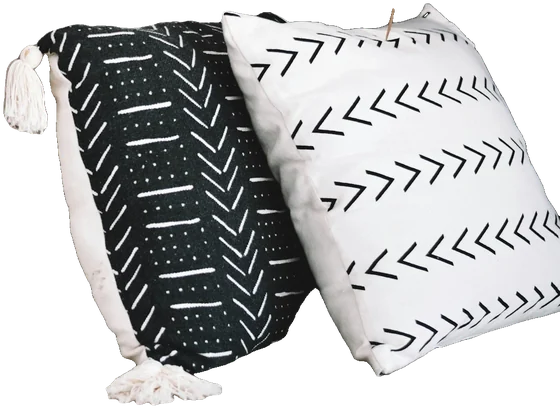
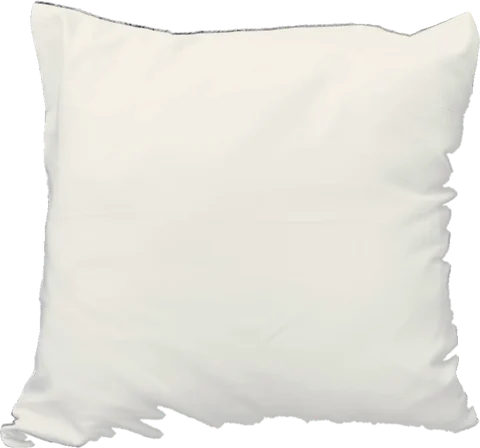
Morning Window: photo table moves to Our Story; plant, white vase, tulip
- The table spread with photo1-4 no longer sits under the hero; it now
  continues the Our Story band, laid out on the same linen as the story
  photos (so it shows where the story is told).
- Plain cream square cushion instead of the Nordic mudcloth pair.
- A houseplant in a white ribbed pot on the table and a plain white vase
  over Schedule replace the stoneware vase.
- R.S.V.P. gets a single pink tulip stem instead of the dried thistle.

Also fixes a stale comment in the chapel stylesheet.

Claude-Session: https://claude.ai/code/session_01B2hpZLg8v4z8WiErSMQ7o1

diff --git a/preview/morning-window.html b/preview/morning-window.html
@@ -74,7 +74,7 @@
 <!-- ============ 主畫面：紗簾拉開之後，早晨的窗邊與一張早餐桌 ============
      一張真的照片：白框窗前的一瓶鬱金香（跟開場紗簾後面那扇窗是同一張）。
      侘寂（Wabi-Sabi）：灰泥牆、亞麻、手捏的陶、乾燥的花草，顏色都是褪過的大地色。
-     往下是一張鋪著亞麻桌巾的桌子：洗出來的照片散在桌上，旁邊是手作陶杯、北歐抱枕、一只粗陶瓶
+     「我們的故事」那裡是一張鋪著亞麻桌巾的桌子：洗出來的照片散在桌上，旁邊是手作陶杯、素色抱枕、一盆室內植物
      （全部是去背的真實物件，不放在框裡）。整頁的灰泥牆上落著窗格形狀的陽光，跟著捲動慢慢移動。 -->
 <div id="app">
   <section class="panel lobby mw-lobby" data-panel="lobby" data-scroll>
@@ -108,19 +108,6 @@
 
     <div class="scene-body mw-body">
 
-      <!-- ===== 早餐桌：亞麻桌巾上散著四張洗出來的照片（照片牆前四張），
-           手作陶杯、北歐抱枕、一只粗陶瓶擺在照片之間；窗光跟著捲動滑過桌面 ===== -->
-      <section class="mw-table" data-scroll aria-hidden="true">
-        <i class="mw-table-sun"></i>
-        <figure class="mw-print p1" data-reveal="rise"><div class="mw-print-ph" data-photo="photo1"></div></figure>
-        <figure class="mw-print p2" data-reveal="rise"><div class="mw-print-ph" data-photo="photo2"></div></figure>
-        <figure class="mw-print p3" data-reveal="rise"><div class="mw-print-ph" data-photo="photo3"></div></figure>
-        <figure class="mw-print p4" data-reveal="rise"><div class="mw-print-ph" data-photo="photo4"></div></figure>
-        <i class="mw-obj o-cup t-cup"></i>
-        <i class="mw-obj o-cushion t-cushion"></i>
-        <i class="mw-obj o-vase t-vase"></i>
-      </section>
-
       <!-- ===== 婚禮資訊：一只手作陶杯 ===== -->
       <section class="info-block mw-sec">
         <div class="mw-head">
@@ -150,10 +137,10 @@
         </div>
       </section>
 
-      <!-- ===== 當日流程：一只粗陶瓶 ===== -->
+      <!-- ===== 當日流程：一只白色花瓶 ===== -->
       <section class="info-block mw-sec" id="scheduleBlock">
         <div class="mw-head">
-          <figure class="mw-icon" data-reveal="draw"><i class="mw-obj o-vase"></i></figure>
+          <figure class="mw-icon" data-reveal="draw"><i class="mw-obj o-wvase"></i></figure>
           <span class="en block-title">Schedule</span>
           <span class="cn block-sub">當日流程</span>
         </div>
@@ -162,7 +149,7 @@
         </div>
       </section>
 
-      <!-- ===== 出席前的小提醒：一對北歐抱枕（沒填就整塊收起） ===== -->
+      <!-- ===== 出席前的小提醒：一顆素色抱枕（沒填就整塊收起） ===== -->
       <section class="info-block mw-sec" id="noteBlock" hidden>
         <div class="mw-head">
           <figure class="mw-icon" data-reveal="draw"><i class="mw-obj o-cushion"></i></figure>
@@ -207,7 +194,7 @@
         </div>
       </section>
 
-      <!-- ===== 兩人的故事：亞麻布上疊著兩張照片（故事照、照片牆第五張），窗格的陽光跟著捲動慢慢滑過去 ===== -->
+      <!-- ===== 兩人的故事：亞麻布上疊著兩張照片（故事照、照片牆第五張），下面接著散著照片的桌巾；窗格的陽光跟著捲動慢慢滑過去 ===== -->
       <section class="info-block mw-band mw-story" id="storyBlock" hidden data-scroll>
         <div class="mw-band-bg" aria-hidden="true"><i class="mw-sun"></i></div>
         <div class="mw-band-inner">
@@ -221,6 +208,18 @@
             <p class="story-text" id="storyText"></p>
           </div>
         </div>
+              <!-- 故事下面接著一張亞麻桌巾：散著四張洗出來的照片（照片牆前四張），
+                   手作陶杯、素色抱枕、一盆室內植物擺在照片之間；窗光跟著捲動滑過桌面 -->
+          <section class="mw-table" data-scroll aria-hidden="true">
+            <i class="mw-table-sun"></i>
+            <figure class="mw-print p1" data-reveal="rise"><div class="mw-print-ph" data-photo="photo1"></div></figure>
+            <figure class="mw-print p2" data-reveal="rise"><div class="mw-print-ph" data-photo="photo2"></div></figure>
+            <figure class="mw-print p3" data-reveal="rise"><div class="mw-print-ph" data-photo="photo3"></div></figure>
+            <figure class="mw-print p4" data-reveal="rise"><div class="mw-print-ph" data-photo="photo4"></div></figure>
+            <i class="mw-obj o-cup t-cup"></i>
+            <i class="mw-obj o-cushion t-cushion"></i>
+            <i class="mw-obj o-plant t-plant"></i>
+          </section>
       </section>
 
       <!-- ===== Moments 相遇之間 ===== -->
@@ -251,14 +250,14 @@
         </div>
       </section>
 
-      <!-- ===== R.S.V.P.：一朵乾燥的薊花 ===== -->
+      <!-- ===== R.S.V.P.：一枝粉色鬱金香 ===== -->
       <section class="info-block mw-sec">
         <div class="mw-head">
           <span class="en block-title">R.S.V.P.</span>
           <span class="cn block-sub">出席回覆</span>
         </div>
         <div class="mw-card mw-rsvp" data-reveal="rise" data-scroll>
-          <figure class="mw-icon mw-rsvp-icon" data-reveal="draw" aria-hidden="true"><i class="mw-obj o-thistle"></i></figure>
+          <figure class="mw-icon mw-rsvp-icon" data-reveal="draw" aria-hidden="true"><i class="mw-obj o-tulip"></i></figure>
           <div class="rsvp-cta">
             <h3>能來參加我們的婚禮嗎？</h3>
             <p>花 30 秒回覆出席，讓我們把最好的位置留給你</p>

diff --git a/public/lobby-window.html b/public/lobby-window.html
@@ -85,7 +85,7 @@
 <!-- ============ 主畫面：紗簾拉開之後，早晨的窗邊與一張早餐桌 ============
      一張真的照片：白框窗前的一瓶鬱金香（跟開場紗簾後面那扇窗是同一張）。
      侘寂（Wabi-Sabi）：灰泥牆、亞麻、手捏的陶、乾燥的花草，顏色都是褪過的大地色。
-     往下是一張鋪著亞麻桌巾的桌子：洗出來的照片散在桌上，旁邊是手作陶杯、北歐抱枕、一只粗陶瓶
+     「我們的故事」那裡是一張鋪著亞麻桌巾的桌子：洗出來的照片散在桌上，旁邊是手作陶杯、素色抱枕、一盆室內植物
      （全部是去背的真實物件，不放在框裡）。整頁的灰泥牆上落著窗格形狀的陽光，跟著捲動慢慢移動。 -->
 <div id="app">
   <section class="panel lobby mw-lobby" data-panel="lobby" data-scroll>
@@ -119,19 +119,6 @@
 
     <div class="scene-body mw-body">
 
-      <!-- ===== 早餐桌：亞麻桌巾上散著四張洗出來的照片（照片牆前四張），
-           手作陶杯、北歐抱枕、一只粗陶瓶擺在照片之間；窗光跟著捲動滑過桌面 ===== -->
-      <section class="mw-table" data-scroll aria-hidden="true">
-        <i class="mw-table-sun"></i>
-        <figure class="mw-print p1" data-reveal="rise"><div class="mw-print-ph" data-photo="photo1"></div></figure>
-        <figure class="mw-print p2" data-reveal="rise"><div class="mw-print-ph" data-photo="photo2"></div></figure>
-        <figure class="mw-print p3" data-reveal="rise"><div class="mw-print-ph" data-photo="photo3"></div></figure>
-        <figure class="mw-print p4" data-reveal="rise"><div class="mw-print-ph" data-photo="photo4"></div></figure>
-        <i class="mw-obj o-cup t-cup"></i>
-        <i class="mw-obj o-cushion t-cushion"></i>
-        <i class="mw-obj o-vase t-vase"></i>
-      </section>
-
       <!-- ===== 婚禮資訊：一只手作陶杯 ===== -->
       <section class="info-block mw-sec">
         <div class="mw-head">
@@ -161,10 +148,10 @@
         </div>
       </section>
 
-      <!-- ===== 當日流程：一只粗陶瓶 ===== -->
+      <!-- ===== 當日流程：一只白色花瓶 ===== -->
       <section class="info-block mw-sec" id="scheduleBlock">
         <div class="mw-head">
-          <figure class="mw-icon" data-reveal="draw"><i class="mw-obj o-vase"></i></figure>
+          <figure class="mw-icon" data-reveal="draw"><i class="mw-obj o-wvase"></i></figure>
           <span class="en block-title">Schedule</span>
           <span class="cn block-sub">當日流程</span>
         </div>
@@ -173,7 +160,7 @@
         </div>
       </section>
 
-      <!-- ===== 出席前的小提醒：一對北歐抱枕（沒填就整塊收起） ===== -->
+      <!-- ===== 出席前的小提醒：一顆素色抱枕（沒填就整塊收起） ===== -->
       <section class="info-block mw-sec" id="noteBlock" hidden>
         <div class="mw-head">
           <figure class="mw-icon" data-reveal="draw"><i class="mw-obj o-cushion"></i></figure>
@@ -218,7 +205,7 @@
         </div>
       </section>
 
-      <!-- ===== 兩人的故事：亞麻布上疊著兩張照片（故事照、照片牆第五張），窗格的陽光跟著捲動慢慢滑過去 ===== -->
+      <!-- ===== 兩人的故事：亞麻布上疊著兩張照片（故事照、照片牆第五張），下面接著散著照片的桌巾；窗格的陽光跟著捲動慢慢滑過去 ===== -->
       <section class="info-block mw-band mw-story" id="storyBlock" hidden data-scroll>
         <div class="mw-band-bg" aria-hidden="true"><i class="mw-sun"></i></div>
         <div class="mw-band-inner">
@@ -232,6 +219,18 @@
             <p class="story-text" id="storyText"></p>
           </div>
         </div>
+              <!-- 故事下面接著一張亞麻桌巾：散著四張洗出來的照片（照片牆前四張），
+                   手作陶杯、素色抱枕、一盆室內植物擺在照片之間；窗光跟著捲動滑過桌面 -->
+          <section class="mw-table" data-scroll aria-hidden="true">
+            <i class="mw-table-sun"></i>
+            <figure class="mw-print p1" data-reveal="rise"><div class="mw-print-ph" data-photo="photo1"></div></figure>
+            <figure class="mw-print p2" data-reveal="rise"><div class="mw-print-ph" data-photo="photo2"></div></figure>
+            <figure class="mw-print p3" data-reveal="rise"><div class="mw-print-ph" data-photo="photo3"></div></figure>
+            <figure class="mw-print p4" data-reveal="rise"><div class="mw-print-ph" data-photo="photo4"></div></figure>
+            <i class="mw-obj o-cup t-cup"></i>
+            <i class="mw-obj o-cushion t-cushion"></i>
+            <i class="mw-obj o-plant t-plant"></i>
+          </section>
       </section>
 
       <!-- ===== Moments 相遇之間 ===== -->
@@ -262,14 +261,14 @@
         </div>
       </section>
 
-      <!-- ===== R.S.V.P.：一朵乾燥的薊花 ===== -->
+      <!-- ===== R.S.V.P.：一枝粉色鬱金香 ===== -->
       <section class="info-block mw-sec">
         <div class="mw-head">
           <span class="en block-title">R.S.V.P.</span>
           <span class="cn block-sub">出席回覆</span>
         </div>
         <div class="mw-card mw-rsvp" data-reveal="rise" data-scroll>
-          <figure class="mw-icon mw-rsvp-icon" data-reveal="draw" aria-hidden="true"><i class="mw-obj o-thistle"></i></figure>
+          <figure class="mw-icon mw-rsvp-icon" data-reveal="draw" aria-hidden="true"><i class="mw-obj o-tulip"></i></figure>
           <div class="rsvp-cta">
             <h3>能來參加我們的婚禮嗎？</h3>
             <p>花 30 秒回覆出席，讓我們把最好的位置留給你</p>

diff --git a/public/css/lobby-window.css b/public/css/lobby-window.css
@@ -7,7 +7,7 @@
      世界觀  開場拉開一片亞麻紗簾，簾子後面是早晨的窗邊
      材質    灰泥牆、亞麻、木頭、粗陶、乾燥花草、早晨淡淡的陽光
      素材    真的照片：紗簾與窗、白牆上窗格形狀的陽光、亞麻布、照著陽光的紗簾；
-             去背的手作陶杯、粗陶瓶、北歐抱枕、攤開的書、乾燥的薊花與種子花、乾草穗；全部在 public/img/window/，出處見 README
+             去背的手作陶杯、室內植物、白色花瓶、素色抱枕、攤開的書、一枝粉色鬱金香、乾燥的種子花、乾草穗；全部在 public/img/window/，出處見 README
      圖像    區塊標題上是一件一件去背的早晨小物（不放在框裡），像擺在桌上
      新人照片  早餐桌上四張（照片牆前四張）、故事兩張、倒數旁一張 —— 都是洗出來的照片
 
@@ -129,8 +129,8 @@ body[data-hero-name="cn"] .mw-hero .mw-names{font-family:'Noto Serif TC',serif;f
 .mw-table .p4{left:calc(50% + clamp(220px,26vw,330px));top:12%;--r:7deg;}
 .mw-table .mw-obj{position:absolute;height:auto;z-index:3;}
 .mw-table .t-cup{width:clamp(90px,10vw,120px);left:calc(50% - clamp(220px,24vw,300px));top:62%;}
-.mw-table .t-cushion{width:clamp(140px,16vw,200px);left:calc(50% + clamp(4px,1.6vw,24px));top:58%;transform:rotate(-4deg);}
-.mw-table .t-vase{width:clamp(90px,10vw,130px);left:calc(50% + clamp(220px,26vw,330px));top:52%;}
+.mw-table .t-cushion{width:clamp(110px,12vw,150px);left:calc(50% + clamp(4px,1.6vw,24px));top:56%;transform:rotate(-6deg);}
+.mw-table .t-plant{width:clamp(110px,12vw,150px);left:calc(50% + clamp(220px,26vw,330px));top:46%;}
 @media (max-width:640px){
   .mw-table{height:520px;}
   .mw-table .mw-print{width:42vw;}
@@ -139,8 +139,8 @@ body[data-hero-name="cn"] .mw-hero .mw-names{font-family:'Noto Serif TC',serif;f
   .mw-table .p3{left:6vw;top:40%;}
   .mw-table .p4{left:52vw;top:37%;}
   .mw-table .t-cup{width:28vw;left:2vw;top:76%;}
-  .mw-table .t-cushion{width:30vw;left:36vw;top:78%;}
-  .mw-table .t-vase{width:22vw;left:70vw;top:70%;}
+  .mw-table .t-cushion{width:24vw;left:38vw;top:76%;}
+  .mw-table .t-plant{width:24vw;left:70vw;top:66%;}
 }
 
 /* ============================================================
@@ -152,15 +152,16 @@ body[data-hero-name="cn"] .mw-hero .mw-names{font-family:'Noto Serif TC',serif;f
 .mw-sec[hidden]{display:none;}
 .mw-head{display:flex;flex-direction:column;align-items:center;gap:4px;margin-bottom:clamp(18px,3vw,28px);}
 .mw-icon{position:relative;margin:0 0 10px;display:flex;justify-content:center;align-items:flex-end;height:clamp(96px,11vw,128px);}
-/* 去背的侘寂小物（真的照片）：手作陶杯（Annie Spratt）、粗陶瓶與乾燥薊花（Anya Chernykh）、北歐抱枕（Content Pixie）、
-   攤開的書（Olga Tutunaru）、乾燥的種子花（Stacy）／Unsplash。底下落一點桌面的影子 */
+/* 去背的侘寂小物（真的照片）：手作陶杯（Annie Spratt）、白色花瓶（Sixteen Miles Out）、白盆裡的室內植物（Ceyda Çiftci）、
+   素色抱枕（Mediamodifier）、攤開的書（Olga Tutunaru）、一枝粉色鬱金香（Sabina Hassan）、乾燥的種子花（Stacy）／Unsplash。底下落一點桌面的影子 */
 .mw-obj{display:block;height:100%;background:center bottom/contain no-repeat;
   filter:drop-shadow(6px 14px 10px rgba(110,85,60,.24));}
 .mw-obj.o-cup{aspect-ratio:350/458;background-image:url(../img/window/clay-cup.webp);}
-.mw-obj.o-vase{aspect-ratio:352/480;background-image:url(../img/window/stone-vase.webp);}
-.mw-obj.o-thistle{aspect-ratio:303/560;background-image:url(../img/window/thistle.webp);height:118%;}
+.mw-obj.o-plant{aspect-ratio:414/520;background-image:url(../img/window/plant.webp);}
+.mw-obj.o-wvase{aspect-ratio:308/440;background-image:url(../img/window/white-vase.webp);height:92%;}
+.mw-obj.o-tulip{aspect-ratio:85/420;background-image:url(../img/window/tulip-stem.webp);height:130%;transform:rotate(-6deg);}
 .mw-obj.o-seed{aspect-ratio:214/320;background-image:url(../img/window/seedhead.webp);}
-.mw-obj.o-cushion{aspect-ratio:560/409;background-image:url(../img/window/cushion.webp);}
+.mw-obj.o-cushion{aspect-ratio:480/448;background-image:url(../img/window/cushion.webp);}
 .mw-obj.o-book{aspect-ratio:640/559;background-image:url(../img/window/book.webp);}
 
 /* 洗出來的照片：白邊、一點點厚度、落在桌上的影子 */
@@ -208,7 +209,10 @@ body[data-hero-name="cn"] .mw-hero .mw-names{font-family:'Noto Serif TC',serif;f
 .mw-band-title{font:400 clamp(32px,4.6vw,48px)/1.15 'EB Garamond','Noto Serif TC',serif;letter-spacing:.01em;color:var(--mw-ink);}
 .mw-band-sub{margin-top:8px;font-size:13px;letter-spacing:.42em;color:var(--mw-soft);}
 
-/* ---- 故事：亞麻布 ＋ 一張照片 ＋ 滑過去的窗格陽光 ---- */
+/* ---- 故事：亞麻布 ＋ 兩張照片 ＋ 下面一張散著照片的桌巾 ＋ 滑過去的窗格陽光 ---- */
+/* 桌巾放進故事這一帶：底下的亞麻布就是桌巾，不必自己再鋪一塊、也不必淡出 */
+.mw-story .mw-table{margin:clamp(40px,6vw,70px) -24px 0;background:none;-webkit-mask:none;mask:none;z-index:2;}
+.mw-story .mw-table-sun{display:none;}   /* 窗光由整條帶子的 .mw-sun 負責 */
 /* 一塊真的亞麻布（Safwan Thottoli／Unsplash） */
 .mw-story .mw-band-bg{overflow:hidden;background:#ece2d0 url(../img/window/linen.webp) center/cover no-repeat;
   box-shadow:inset 0 14px 20px -16px rgba(110,85,60,.35),inset 0 -14px 20px -16px rgba(110,85,60,.35);}

diff --git a/public/css/lobby-chapel.css b/public/css/lobby-chapel.css
@@ -227,7 +227,7 @@ body[data-hero-name="cn"] .mc-hero .mc-names{font-family:'Noto Serif TC',serif;f
 .mc-story-body{padding:clamp(26px,4vw,40px);text-align:left;}
 .mc-story .story-text{margin:18px 0 0;max-width:32em;color:var(--mc-ink);font-size:15px;text-align:left;}
 
-/* ---- 倒數：毛玻璃後面是兩個人的照片，越捲越清楚 ---- */
+/* ---- 倒數：毛玻璃後面是一片鈴蘭，越捲越清楚 ---- */
 .mc-count{--clear:clamp(0,calc((var(--sp,0) - .12) * 2.4),1);}
 /* 毛玻璃後面：一片柔白的鈴蘭（Svetlana Butovskaya／Unsplash），捲到這裡慢慢清楚 */
 .mc-frost-ph{position:absolute;inset:-30px;background:#f3f2ee url(../img/chapel/lily-field.webp) 50% 45%/cover no-repeat;

diff --git a/README.md b/README.md
@@ -337,11 +337,12 @@ HTML 裡直接寫 `{{couple}}`、`{{date}}`、`{{hashtag}}` 這類 token，
 > | `window/sun-patch.webp` | 整頁牆上窗格形狀的陽光、早餐桌與「我們的故事」上滑過去的光 | [白牆上的窗光](https://unsplash.com/photos/X8sWlFdQElQ)・H&CO | 轉成灰階、拉開明暗，做成 multiply 用的光影 |
 > | `window/linen.webp` | 早餐桌的桌巾、「我們的故事」的亞麻布 | [米色的布紋](https://unsplash.com/photos/QFQ6vsou7XA)・Safwan Thottoli | 縮圖 |
 > | `window/sheer-light.webp` | 倒數（陽光跟著捲動移過來） | [陽光斜斜照在白紗簾上](https://unsplash.com/photos/VUu9rAmb9R0)・Mila Albrecht | 縮圖 |
-> | `window/clay-cup.webp` | 早餐桌、婚禮資訊 | [手捏的陶杯](https://unsplash.com/photos/x6XqtHVag7c)・Annie Spratt | 去背 |
-> | `window/stone-vase.webp` | 早餐桌、當日流程 | [一只粗陶瓶](https://unsplash.com/photos/YxWqfvc8l2s)・Anya Chernykh | 去背 |
-> | `window/cushion.webp` | 早餐桌、小提醒 | [一對北歐風抱枕](https://unsplash.com/photos/k8AlRsl7L8E)・Content Pixie | 去背 |
+> | `window/clay-cup.webp` | 「我們的故事」的桌巾上、婚禮資訊 | [手捏的陶杯](https://unsplash.com/photos/x6XqtHVag7c)・Annie Spratt | 去背 |
+> | `window/plant.webp` | 「我們的故事」的桌巾上 | [白色條紋盆裡的一盆草](https://unsplash.com/photos/zbQ3vh9zLwo)・Ceyda Çiftci | 去背 |
+> | `window/cushion.webp` | 「我們的故事」的桌巾上、小提醒 | [一顆白色方枕](https://unsplash.com/photos/zTY9OwAfOrg)・Mediamodifier | 去背、去掉旁邊的毯子，調成米白 |
 > | `window/book.webp` | 交通資訊 | [攤開的書與一枝小草](https://unsplash.com/photos/H1G1fa_UIkA)・Olga Tutunaru | 去背 |
-> | `window/thistle.webp` | R.S.V.P. | [粗陶瓶裡的一朵乾燥薊花](https://unsplash.com/photos/UGOVKgymeVQ)・Anya Chernykh | 去背（只留花） |
+> | `window/white-vase.webp` | 當日流程 | [一只白色花瓶](https://unsplash.com/photos/aFvxASlms2A)・Sixteen Miles Out | 去背 |
+> | `window/tulip-stem.webp` | R.S.V.P. | [一枝粉白鬱金香](https://unsplash.com/photos/d3C86xPipVs)・Sabina Hassan | 去背 |
 > | `window/seedhead.webp` | 倒數照片旁、捲動軌跡沿路落下的種子花 | [一枝乾燥的種子花](https://unsplash.com/photos/mpt2pljjzf4)・Stacy | 去背 |
 > | `window/grass-plume.webp` | 捲動軌跡末端的乾草穗 | [一枝乾草穗](https://unsplash.com/photos/_88DsHh1F20)・Evie S. | 去背 |
 > | `window/plaster.webp` | 整頁的灰泥牆 | [米色灰泥牆](https://unsplash.com/photos/hyVwWTaGsxI)・Pawel Czerwinski | 調淡成燕麥白 |
@@ -391,7 +392,7 @@ HTML 裡直接寫 `{{couple}}`、`{{date}}`、`{{hashtag}}` 這類 token，
 | spring-orangerie | ✅ 真的照片（明亮的玻璃溫室、白玫瑰、鬱金香、檸檬枝、蕨葉、澆水壺、溫室屋頂、小王子的那一朵紅玫瑰、白牆上的葉影、一束白玫瑰）＋ 捲動編排（葉影隨捲動移動、斜射的光、倒數區的紅玫瑰捲到時亮起暖光），素材見上面〈春日溫室與植物信箋的照片素材〉 | `lobby-orangerie.html` |
 | night-sky | ✅ 整套插圖（現代星空：開場那張心形星圖停在 hero、寫實的月亮、三層山稜、亮燈的帳篷、坐著看星星的兩個人、細金線星座）＋ 捲動編排（三層星星視差、星圖外環跟著轉、星座一條一條連起來、望遠鏡視野的軌道、倒數的月亮越捲越圓、頁尾天快亮了） | `lobby-night.html` |
 | french-manor | ✅ 文藝復興：真的天頂濕壁畫、去背的大理石雕像與雕刻（花神、天使、小天使胸像、玫瑰花飾、女神、丘比特與賽姬）、大理石名牌 ＋ 從真的照片描出來的剪紙（城堡剪出一排排窗、托斯卡尼柏樹）＋ 開場走進的那座花園當倒數的背景 ＋ 新人照片放在剪紙橢圓花邊框（共 7 處）＋ 捲動編排（hero 的剪紙一層一層視差、倒數的花園照片視差），素材見上面〈法式莊園的照片素材〉 | `lobby-manor.html` |
-| morning-window | ✅ 侘寂（Wabi-Sabi）：真的照片（窗前的一瓶鬱金香、灰泥牆、牆上窗格形狀的陽光、亞麻布、照著陽光的紗簾），顏色都是褪過的大地色 ＋ 一張桌子：洗出來的照片散在亞麻桌巾上、去背的手作陶杯／北歐抱枕／粗陶瓶 ＋ 區塊標題上是去背的侘寂小物（陶杯、粗陶瓶、乾燥薊花，不放在框裡）＋ 左邊一枝乾草跟著捲動垂下來＋ 新人照片共 7 處 ＋ 捲動編排（照片一張張落到桌上、窗光滑過桌面、倒數時紗簾越捲越暖），素材見上面〈晨光房間的照片素材〉 | `lobby-window.html` |
+| morning-window | ✅ 侘寂（Wabi-Sabi）：真的照片（窗前的一瓶鬱金香、灰泥牆、牆上窗格形狀的陽光、亞麻布、照著陽光的紗簾），顏色都是褪過的大地色 ＋ 「我們的故事」接著一張桌巾：洗出來的照片散在亞麻布上、去背的手作陶杯／素色抱枕／一盆室內植物 ＋ 區塊標題上是去背的小物（陶杯、白色花瓶、素色抱枕、攤開的書、一枝粉色鬱金香，不放在框裡）＋ 左邊一枝乾草跟著捲動垂下來＋ 新人照片共 7 處 ＋ 捲動編排（照片一張張落到桌上、窗光滑過桌面、倒數時紗簾越捲越暖），素材見上面〈晨光房間的照片素材〉 | `lobby-window.html` |
 | midnight-chapel | ✅ 開場在午夜的禮堂點亮三根真的蠟燭 → 燭火熄掉、天亮 → 大廳是同一座純白禮堂；玻璃感：照片壓在厚玻璃裡（反光隨捲動滑過）、毛玻璃的卡；兩旁垂著白紗、hero 下緣一圈蕾絲、兩旁的蕾絲邊跟著捲動一路縫下來、頁尾一片滿天星；區塊標題上是去背的實物（戒指、水晶燈、鈴蘭、百合、白色蝴蝶蘭）；新人照片共 7 處（倒數的毛玻璃後面是一片鈴蘭，越捲越清楚），素材見上面〈午夜教堂的照片素材〉 | `lobby-chapel.html` |
 
 Night Sky 與 Midnight Chapel 的大廳是深色的，但子頁暫時還是淺色版（見 common.css）。
